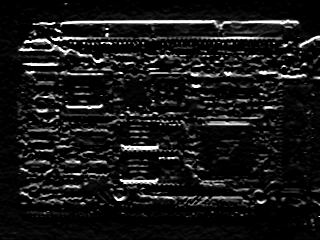
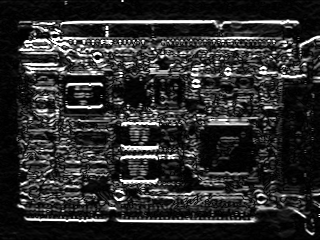
Fix: Fix sobel filter
1. For horizontal and vertical, there's direction when filtering the
   edges, therefore, we need to take absolute of the values in order to
   get all edges

diff --git a/IP_HW/IP_HW/MyForm.cpp b/IP_HW/IP_HW/MyForm.cpp
@@ -301,6 +301,7 @@ System::Void MyForm::V_Sob(System::Object^  sender, System::EventArgs^  e) {				
 	for (int i = 0; i < orgImg->Height; i++) {
 		for (int j = 0; j < orgImg->Width; j++) {
 			int value = conv_kernel(orgImg, i, j, v_sob_f, KERNEL_SIZE);
+			value = abs(value);
 			if (value < 0)
 				value = 0;
 			if (value > 255)
@@ -317,6 +318,7 @@ System::Void MyForm::H_Sob(System::Object^  sender, System::EventArgs^  e) {				
 	for (int i = 0; i < orgImg->Height; i++) {
 		for (int j = 0; j < orgImg->Width; j++) {
 			int value = conv_kernel(orgImg, i, j, h_sob_f, KERNEL_SIZE);
+			value = abs(value);
 			if (value < 0)
 				value = 0;
 			if (value > 255)
